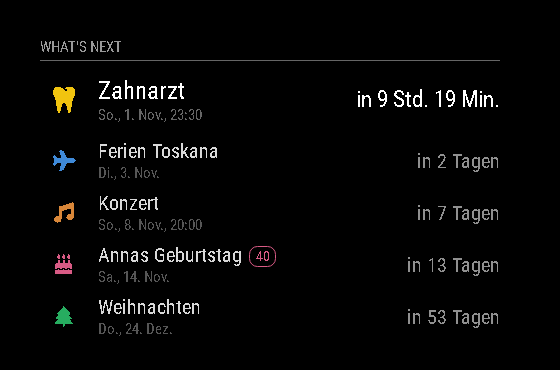
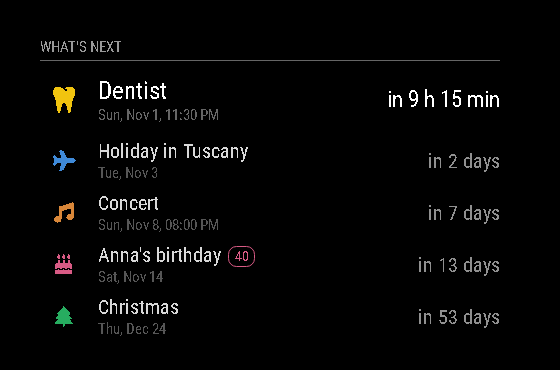
Translate README and screenshots to English
The README, the preview screenshots and the preview's default
language are now English. German, French and Italian remain
available as translations.

diff --git a/dev/server.js b/dev/server.js
@@ -10,7 +10,7 @@ const path = require("path");
 const Module = require("module");
 
 const PORT = Number(process.argv[2]) || 8090;
-const LANGUAGE = process.argv[3] || "de";
+const LANGUAGE = process.argv[3] || "en";
 const ROOT = path.resolve(__dirname, "..");
 const MIME = { ".html": "text/html", ".js": "text/javascript", ".css": "text/css", ".json": "application/json" };
 

diff --git a/README.md b/README.md
@@ -1,23 +1,23 @@
 # MMM-WhatsNext
 
-Ein [MagicMirror²](https://magicmirror.builders/)-Modul, das anstehende Ereignisse mit Countdown anzeigt – Geburtstage, Ferien, Termine, Jubiläen. Die Ereignisse werden bequem über eine **Weboberfläche** (z. B. vom Handy aus) verwaltet, ganz ohne `config.js` anzufassen.
+A [MagicMirror²](https://magicmirror.builders/) module that shows upcoming events with a countdown – birthdays, holidays, appointments, anniversaries. Events are managed through a **web interface** (e.g. from your phone), without touching `config.js`.
 
-**Sprachen:** Deutsch, Englisch, Französisch, Italienisch (Spiegel und Weboberfläche).
+**Languages:** German, English, French, Italian (mirror and web interface).
 
-![Anzeige auf dem Spiegel](images/screenshot.png)
+![Display on the mirror](images/screenshot.png)
 
-![Weboberfläche](images/web-config.png)
+![Web interface](images/web-config.png)
 
-## Funktionen
+## Features
 
-- Liste der nächsten Ereignisse mit Symbol, Farbe, Datum und Countdown
-- Drei Countdown-Formate: automatisch (`morgen`, `in 3 Tagen`, `in 2 Std. 15 Min.`), nur Tage (große Zahl), detailliert (`2 T 04:15:09`)
-- Ganztägige und zeitgebundene Ereignisse; „Jetzt“-Anzeige während eines laufenden Termins
-- Wiederholung: wöchentlich, monatlich, jährlich (inkl. 29. Februar / 31. des Monats)
-- Optional Anzahl Jahre anzeigen (z. B. „Anna wird 40“)
-- Ereignisse ausblenden, ohne sie zu löschen
-- Weboberfläche unter `http://<spiegel>:8080/whatsnext`, Änderungen erscheinen sofort auf dem Spiegel
-- Optionaler Zugriffsschutz per Token
+- List of upcoming events with icon, color, date and countdown
+- Three countdown formats: automatic (`tomorrow`, `in 3 days`, `in 2 h 15 min`), days only (large number), detailed (`2 d 04:15:09`)
+- All-day and timed events; "now" is shown while an event is running
+- Repetition: weekly, monthly, yearly (handles 29 February and the 31st of a month)
+- Optionally show the number of years (e.g. "Anna turns 40")
+- Hide events without deleting them
+- Web interface at `http://<mirror>:8080/whatsnext`, changes appear on the mirror immediately
+- Optional access protection with a token
 
 ## Installation
 
@@ -26,7 +26,7 @@ cd ~/MagicMirror/modules
 git clone https://github.com/ch1ledbe/MMM-WhatsNext
 ```
 
-Das Modul hat keine Laufzeit-Abhängigkeiten, ein `npm install` ist nicht nötig.
+The module has no runtime dependencies, so `npm install` is not required.
 
 ## Update
 
@@ -35,9 +35,9 @@ cd ~/MagicMirror/modules/MMM-WhatsNext
 git pull
 ```
 
-Danach den MagicMirror neu starten. Gespeicherte Ereignisse in `data/` bleiben erhalten. Änderungen stehen im [CHANGELOG](CHANGELOG.md).
+Restart MagicMirror afterwards. Saved events in `data/` are kept. See the [CHANGELOG](CHANGELOG.md) for changes.
 
-## Konfiguration
+## Configuration
 
 In `~/MagicMirror/config/config.js`:
 
@@ -45,86 +45,86 @@ In `~/MagicMirror/config/config.js`:
 {
 	module: "MMM-WhatsNext",
 	position: "top_left",
-	header: "Was steht an?",
+	header: "What's next",
 	config: {
 		maxEvents: 5,
 		countdownFormat: "auto",
-		apiToken: "mein-geheimer-schluessel" // optional
+		apiToken: "my-secret-key" // optional
 	}
 },
 ```
 
-| Option | Standard | Beschreibung |
+| Option | Default | Description |
 | --- | --- | --- |
-| `maxEvents` | `5` | Maximale Anzahl angezeigter Ereignisse (`0` = alle) |
-| `maxDaysAhead` | `0` | Nur Ereignisse der nächsten _n_ Tage (`0` = alle) |
-| `countdownFormat` | `"auto"` | `"auto"`, `"days"` oder `"detailed"` |
-| `showDate` | `true` | Datum unter dem Titel anzeigen |
-| `showIcons` | `true` | Symbole anzeigen |
-| `highlightNext` | `true` | Nächstes Ereignis größer darstellen |
-| `showSeconds` | `false` | Sekunden im Format `"detailed"` |
-| `nowWindowMinutes` | `60` | Wie lange ein Termin nach Beginn als „Jetzt“ angezeigt wird |
-| `defaultIcon` | `"calendar-day"` | Symbol für Ereignisse ohne eigenes Symbol |
-| `apiToken` | `""` | Wenn gesetzt, verlangt die Weboberfläche diesen Schlüssel |
-| `events` | `[]` | Startereignisse – werden nur übernommen, solange noch nichts über die Weboberfläche gespeichert wurde |
+| `maxEvents` | `5` | Maximum number of events shown (`0` = all) |
+| `maxDaysAhead` | `0` | Only show events within the next _n_ days (`0` = all) |
+| `countdownFormat` | `"auto"` | `"auto"`, `"days"` or `"detailed"` |
+| `showDate` | `true` | Show the date below the title |
+| `showIcons` | `true` | Show icons |
+| `highlightNext` | `true` | Show the next event larger |
+| `showSeconds` | `false` | Show seconds in the `"detailed"` format |
+| `nowWindowMinutes` | `60` | How long a timed event is shown as "now" after it started |
+| `defaultIcon` | `"calendar-day"` | Icon for events without their own icon |
+| `apiToken` | `""` | If set, the web interface asks for this key |
+| `events` | `[]` | Initial events – only used as long as nothing has been saved through the web interface |
 
-Die Anzeigeoptionen (`maxEvents` bis `nowWindowMinutes`) lassen sich auch in der Weboberfläche ändern; dort gespeicherte Werte haben Vorrang vor der `config.js`.
+The display options (`maxEvents` to `nowWindowMinutes`) can also be changed in the web interface; values saved there take precedence over `config.js`.
 
-Die Anzeigesprache folgt der `language`-Einstellung des MagicMirrors. Die Sprache der Weboberfläche lässt sich oben rechts umschalten.
+The display language follows MagicMirror's `language` setting. The language of the web interface can be switched in the top right corner.
 
-### Ereignisse in der config.js (optional)
+### Events in config.js (optional)
 
 ```js
 events: [
-	{ title: "Weihnachten", date: "2026-12-24", repeat: "yearly", icon: "tree", color: "#2ecc71" },
-	{ title: "Annas Geburtstag", date: "1986-11-14", repeat: "yearly", icon: "cake-candles", showYears: true },
-	{ title: "Zahnarzt", date: "2026-11-20", time: "14:30", icon: "tooth" }
+	{ title: "Christmas", date: "2026-12-24", repeat: "yearly", icon: "tree", color: "#2ecc71" },
+	{ title: "Anna's birthday", date: "1986-11-14", repeat: "yearly", icon: "cake-candles", showYears: true },
+	{ title: "Dentist", date: "2026-11-20", time: "14:30", icon: "tooth" }
 ]
 ```
 
-Felder: `title`, `date` (`YYYY-MM-DD`), `time` (`HH:MM`, leer = ganztägig), `repeat` (`none`/`weekly`/`monthly`/`yearly`), `icon` ([Font-Awesome](https://fontawesome.com/search?o=r&m=free&s=solid)-Name), `color` (`#rrggbb`), `showYears`, `enabled`.
+Fields: `title`, `date` (`YYYY-MM-DD`), `time` (`HH:MM`, empty = all-day), `repeat` (`none`/`weekly`/`monthly`/`yearly`), `icon` ([Font Awesome](https://fontawesome.com/search?o=r&m=free&s=solid) name), `color` (`#rrggbb`), `showYears`, `enabled`.
 
-## Weboberfläche
+## Web interface
 
-Aufruf: `http://<ip-des-spiegels>:8080/whatsnext`
+Open `http://<mirror-ip>:8080/whatsnext`
 
-Damit die Seite von anderen Geräten erreichbar ist, muss der MagicMirror im Netzwerk lauschen. In der `config.js`:
+To reach the page from other devices, MagicMirror has to listen on the network. In `config.js`:
 
 ```js
 address: "0.0.0.0",
-ipWhitelist: [], // oder z. B. ["127.0.0.1", "::ffff:192.168.1.0/24"]
+ipWhitelist: [], // or e.g. ["127.0.0.1", "::ffff:192.168.1.0/24"]
 ```
 
-Die Daten liegen in `modules/MMM-WhatsNext/data/whatsnext.json` (wird bei `git pull` nicht überschrieben).
+Data is stored in `modules/MMM-WhatsNext/data/whatsnext.json` (not overwritten by `git pull`).
 
-**Sicherheit:** Ohne `apiToken` kann jeder im erlaubten Netzwerk Ereignisse ändern. Der Token schützt vor versehentlichen Änderungen, ist aber kein starker Schutz: Er wird – wie die gesamte MagicMirror-Konfiguration – an den Browser des Spiegels ausgeliefert. Die Weboberfläche nicht ins Internet freigeben.
+**Security:** Without `apiToken`, anyone on the allowed network can change events. The token protects against accidental changes but is not strong protection: like the rest of the MagicMirror configuration, it is delivered to the mirror's browser. Do not expose the web interface to the internet.
 
-Die Symbole der Weboberfläche werden von cdnjs geladen; ohne Internetzugang funktioniert die Seite weiterhin, nur ohne Symbolvorschau.
+The icons of the web interface are loaded from cdnjs; without internet access the page still works, just without icon previews.
 
-## Entwicklung
+## Development
 
 ```bash
-npm install       # nur für Entwicklung (ESLint)
-npm run lint      # Code-Stil prüfen
-npm test          # Tests der Datumslogik
-npm run preview   # Vorschau ohne MagicMirror: http://localhost:8090
+npm install       # development only (ESLint)
+npm run lint      # check code style
+npm test          # tests of the date logic
+npm run preview   # preview without MagicMirror: http://localhost:8090
 ```
 
-Die Vorschau speichert ihre Daten in `dev/data/` und berührt eine echte Installation nicht.
+The preview stores its data in `dev/data/` and does not touch a real installation.
 
 ## API
 
-| Methode | Pfad | Beschreibung |
+| Method | Path | Description |
 | --- | --- | --- |
-| `GET` | `/whatsnext/api/meta` | Status, Sprache, ob ein Token nötig ist |
-| `GET` | `/whatsnext/api/state` | Ereignisse und Einstellungen |
-| `POST` | `/whatsnext/api/events` | Ereignis anlegen |
-| `PUT` | `/whatsnext/api/events/:id` | Ereignis ersetzen |
-| `DELETE` | `/whatsnext/api/events/:id` | Ereignis löschen |
-| `PUT` | `/whatsnext/api/settings` | Anzeigeeinstellungen speichern |
+| `GET` | `/whatsnext/api/meta` | Status, language, whether a token is required |
+| `GET` | `/whatsnext/api/state` | Events and settings |
+| `POST` | `/whatsnext/api/events` | Create an event |
+| `PUT` | `/whatsnext/api/events/:id` | Replace an event |
+| `DELETE` | `/whatsnext/api/events/:id` | Delete an event |
+| `PUT` | `/whatsnext/api/settings` | Save display settings |
 
-Bei gesetztem `apiToken` muss der Header `X-WhatsNext-Token` mitgeschickt werden.
+If `apiToken` is set, the header `X-WhatsNext-Token` must be sent.
 
-## Lizenz
+## License
 
 [MIT](LICENSE)
